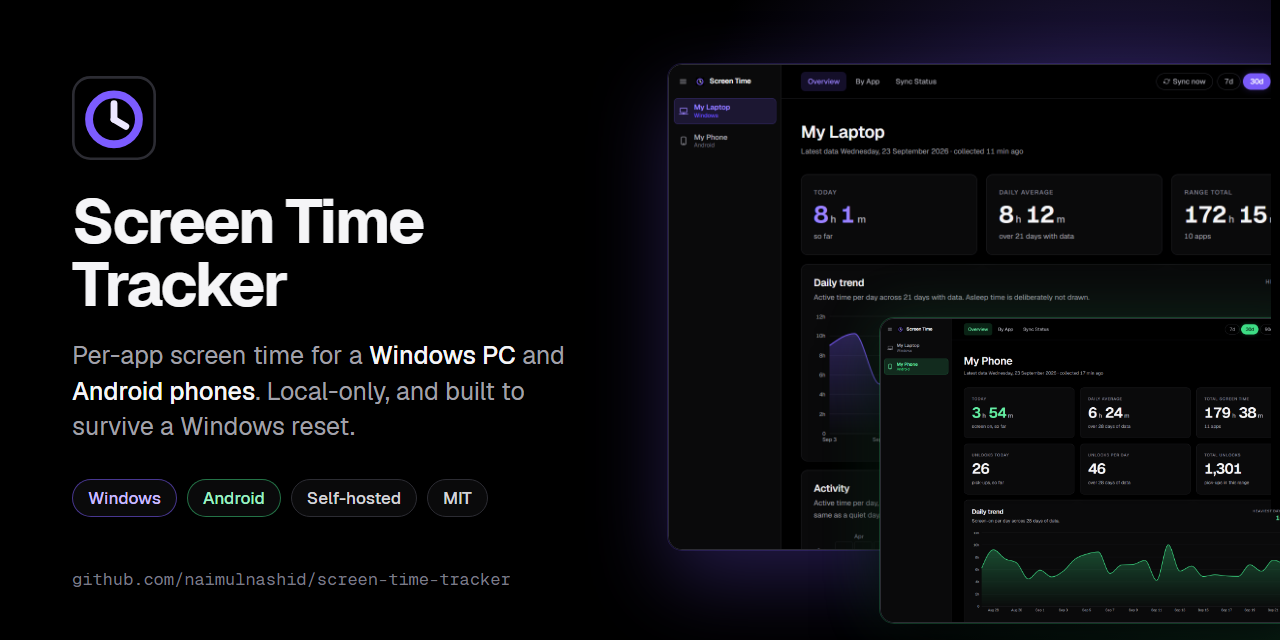
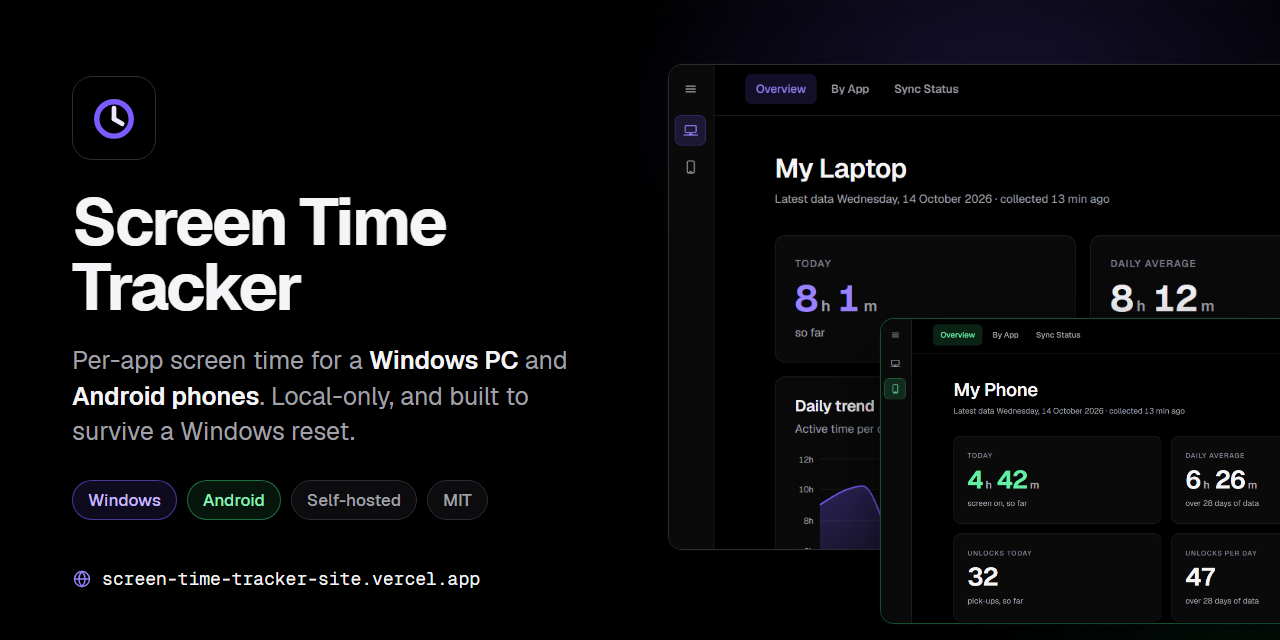
docs: the project site in the README badges and the social preview
The social preview's source is committed now, and the image shows the
site's address in place of the repository's.

diff --git a/docs/social-preview.html b/docs/social-preview.html
@@ -1,0 +1,104 @@
+<!doctype html>
+<!--
+  Source of docs/social-preview.png, the repository's social preview
+  (GitHub: Settings > General > Social preview, which has no API). 1280x640,
+  GitHub's size.
+
+  Built from the demo screenshots, so like them it shows synthetic data only.
+  Retake those first (npm run demo:shots) if the dashboard has changed.
+
+  Render with Edge (fonts come from node_modules, so `npm ci` first):
+
+    "C:\Program Files (x86)\Microsoft\Edge\Application\msedge.exe" --headless=new
+      --disable-gpu --hide-scrollbars --force-device-scale-factor=1
+      --window-size=1280,640 --virtual-time-budget=3000
+      --user-data-dir=%TEMP%\social-preview-edge
+      --screenshot=%CD%\docs\social-preview.png %CD%\docs\social-preview.html
+-->
+<html lang="en">
+<head>
+<meta charset="utf-8">
+<title>Screen Time Tracker</title>
+<style>
+  @font-face { font-family: Geist; font-weight: 400; src: url(../node_modules/geist/dist/fonts/geist-sans/Geist-Regular.woff2) format('woff2'); }
+  @font-face { font-family: Geist; font-weight: 500; src: url(../node_modules/geist/dist/fonts/geist-sans/Geist-Medium.woff2) format('woff2'); }
+  @font-face { font-family: Geist; font-weight: 600; src: url(../node_modules/geist/dist/fonts/geist-sans/Geist-SemiBold.woff2) format('woff2'); }
+  @font-face { font-family: Geist; font-weight: 700; src: url(../node_modules/geist/dist/fonts/geist-sans/Geist-Bold.woff2) format('woff2'); }
+  @font-face { font-family: 'Geist Mono'; font-weight: 400; src: url(../node_modules/geist/dist/fonts/geist-mono/GeistMono-Regular.woff2) format('woff2'); }
+
+  /* The dashboard's own tokens (src/app/globals.css, src/lib/accent.ts). */
+  :root {
+    --bg: #000000;
+    --border: #1e1e22;
+    --border-strong: #2c2c33;
+    --text: #f5f5f7;
+    --text-dim: #a1a1aa;
+    --text-faint: #7b7b86;
+    --violet: #7c5cff;
+    --violet-bright: #9b82ff;
+    --green: #3ddc84;
+  }
+
+  * { box-sizing: border-box; margin: 0; padding: 0; }
+  html, body { width: 1280px; height: 640px; overflow: hidden; }
+  body {
+    background:
+      radial-gradient(560px 380px at 78% 18%, rgba(124, 92, 255, 0.22), transparent 70%),
+      radial-gradient(420px 300px at 96% 98%, rgba(61, 220, 132, 0.10), transparent 70%),
+      var(--bg);
+    color: var(--text);
+    font-family: Geist, system-ui, sans-serif;
+    -webkit-font-smoothing: antialiased;
+  }
+
+  /* ---- left: the words ---- */
+  .copy { position: absolute; left: 72px; top: 76px; bottom: 50px; width: 520px; display: flex; flex-direction: column; }
+  .icon { width: 84px; height: 84px; border-radius: 20px; border: 1.5px solid var(--border-strong); display: grid; place-items: center; background: #000; }
+  .icon svg { width: 58px; height: 58px; }
+  h1 { margin-top: 30px; font-size: 66px; line-height: 0.98; font-weight: 700; letter-spacing: -0.035em; }
+  .tagline { margin-top: 24px; font-size: 25px; line-height: 1.42; color: var(--text-dim); }
+  .tagline strong { color: var(--text); font-weight: 600; }
+  .chips { margin-top: 30px; display: flex; gap: 10px; }
+  .chip { font-size: 17px; font-weight: 500; padding: 8px 15px; border-radius: 999px; border: 1px solid var(--border-strong); color: var(--text-dim); background: #0c0c0e; }
+  .chip.v { color: #c5b8ff; border-color: rgba(124, 92, 255, 0.55); background: rgba(124, 92, 255, 0.12); }
+  .chip.g { color: #8af0b8; border-color: rgba(61, 220, 132, 0.45); background: rgba(61, 220, 132, 0.10); }
+  /* The project site. The card itself links to the repository. */
+  .site { margin-top: auto; display: flex; align-items: center; gap: 10px; font-family: 'Geist Mono', monospace; font-size: 18px; color: var(--text); }
+  .site svg { width: 20px; height: 20px; fill: none; stroke: var(--violet-bright); stroke-width: 1.8; }
+
+  /* ---- right: two framed screenshots ---- */
+  .frame { position: absolute; overflow: hidden; border-radius: 14px; border: 1px solid var(--border-strong); background: #000;
+           box-shadow: 0 0 0 1px rgba(255, 255, 255, 0.02), 0 30px 70px rgba(0, 0, 0, 0.7); }
+  .frame img { display: block; }
+  .laptop { left: 668px; top: 64px; width: 640px; height: 486px; }
+  .laptop img { width: 1100px; margin: -2px 0 0 -2px; }
+  .phone { left: 880px; top: 318px; width: 430px; height: 306px; border-color: rgba(61, 220, 132, 0.35); }
+  .phone img { width: 760px; margin: -2px 0 0 -2px; }
+</style>
+</head>
+<body>
+<section class="copy">
+  <div class="icon">
+    <svg viewBox="0 0 32 32" aria-hidden="true">
+      <circle cx="16" cy="16.5" r="9.5" fill="none" stroke="#7c5cff" stroke-width="3"/>
+      <path d="M16 16.5 V 10.5" stroke="#ece8ff" stroke-width="2.6" stroke-linecap="round"/>
+      <path d="M16 16.5 L 20.5 19.2" stroke="#ece8ff" stroke-width="2.6" stroke-linecap="round"/>
+    </svg>
+  </div>
+  <h1>Screen Time<br>Tracker</h1>
+  <p class="tagline">Per-app screen time for a <strong>Windows PC</strong> and <strong>Android phones</strong>. Local-only, and built to survive a Windows reset.</p>
+  <div class="chips">
+    <span class="chip v">Windows</span>
+    <span class="chip g">Android</span>
+    <span class="chip">Self-hosted</span>
+    <span class="chip">MIT</span>
+  </div>
+  <div class="site">
+    <svg viewBox="0 0 24 24" aria-hidden="true"><circle cx="12" cy="12" r="9"/><path d="M3 12h18M12 3c2.5 2.7 3.8 5.7 3.8 9s-1.3 6.3-3.8 9c-2.5-2.7-3.8-5.7-3.8-9S9.5 5.7 12 3z"/></svg>screen-time-tracker-site.vercel.app
+  </div>
+</section>
+
+<div class="frame laptop"><img src="screenshots/laptop-overview.png" alt=""></div>
+<div class="frame phone"><img src="screenshots/tour/phone-1-overview.png" alt=""></div>
+</body>
+</html>

diff --git a/docs/PROGRESS.md b/docs/PROGRESS.md
@@ -811,7 +811,7 @@ phone's history for the phone's measured reach minus 48 hours, capped at
 168. Measured reach today: Nothing ~216 h, Redmi Note 9 Pro ~218 h, Redmi 5
 Plus ~138 h. Released as the v1.4.0 asset; not yet installed on the phones.
 
-### 2026-10-14 - a project site, and light screenshots
+### 2026-10-14 - a project site, light screenshots, a committed social preview
 
 - [x] `site/`: a static one-page site for visitors, built by `site/build.mjs`
       (copies `docs/screenshots/` in) and configured for Vercel by
@@ -820,12 +820,19 @@ Plus ~138 h. Released as the v1.4.0 asset; not yet installed on the phones.
       laptop / phone switch; Time / Opens toggles; screenshots follow the theme.
 - [x] `demo:shots` takes dark and light in one run: 22 images, pairs checked
       identical in data. Run with a scratch folder on D: (see DEVLOG).
+- [x] `docs/social-preview.html` committed and rendered, the site's address in
+      place of the repo's.
 - [x] Checked: full page in both themes and both device modes at 1440, every
       card paragraph one line, no overflow at 375, toggles, Expand, fold and
       theme switch exercised, no console errors.
-- [ ] Publish the export; import the PUBLIC repo in Vercel as
-      `screen-time-tracker-site`, Root Directory `site`; then link it from the
-      README and the social preview.
+- [x] Published (public `bc5a8bd`, CI green) and imported in Vercel as
+      `screen-time-tracker-site`, Root Directory `site`:
+      <https://screen-time-tracker-site.vercel.app/>. Live check: every chart
+      drawn, screenshots and fonts load, CSP served, no console errors. The
+      repo's About box already names it.
+- [x] README badge (shields "website", reads online / offline) and link.
+- [ ] Upload `docs/social-preview.png` in GitHub: Settings > General >
+      Social preview (no API for it).
 
 ### 2026-10-08 - three phones reinstalled, merged, and v1.4.1
 

diff --git a/README.md b/README.md
@@ -3,6 +3,7 @@
 [![CI](https://github.com/naimulnashid/screen-time-tracker/actions/workflows/ci.yml/badge.svg)](https://github.com/naimulnashid/screen-time-tracker/actions/workflows/ci.yml)
 [![Latest release](https://img.shields.io/github/v/release/naimulnashid/screen-time-tracker)](https://github.com/naimulnashid/screen-time-tracker/releases/latest)
 [![MIT license](https://img.shields.io/github/license/naimulnashid/screen-time-tracker)](LICENSE)
+[![Project site](https://img.shields.io/website?url=https%3A%2F%2Fscreen-time-tracker-site.vercel.app&label=project%20site&up_message=online&down_message=offline)](https://screen-time-tracker-site.vercel.app/)
 
 **How long each app was actually in the foreground — on a Windows PC and your
 Android phones — kept on your own machine, and built to survive a Windows
@@ -11,6 +12,10 @@ reset.**
 ![The laptop's Overview: today, the daily average and the range total, above a daily trend line](docs/screenshots/laptop-overview.png)
 
 *Screenshots show synthetic data from `npm run demo:seed`.*
+
+**[See it on the project site](https://screen-time-tracker-site.vercel.app/)**:
+how it works, a tour of the dashboard, every chart it draws (live, on
+invented data) and every feature.
 
 - **Local only.** A dashboard on your own PC, reachable from your LAN. No
   cloud, no account, no telemetry, no outbound requests.
@@ -28,7 +33,9 @@ reset.**
 
 Each page top to bottom, at 1440px wide, in the default dark theme. A
 Dark / Light / System menu in the top bar switches every page to a light
-theme. Retake them all with `npm run demo:shots`.
+theme; each image has a light twin beside it (`*-light.png`), taken in the
+same run from the same demo, so the two show the same numbers. Retake them
+all with `npm run demo:shots`.
 
 ### The laptop
 

diff --git a/CHANGELOG.md b/CHANGELOG.md
@@ -9,15 +9,21 @@ each change -- what was measured, and what it overturned -- is in
 ## [Unreleased]
 
 ### Added
-- **A project site** in `site/`, for Vercel with Root Directory `site`:
+- **A project site** in `site/`, deployed on Vercel at
+  <https://screen-time-tracker-site.vercel.app/> with Root Directory `site`:
   what the project is for, how both collectors work, a tour of every page in
   the matching theme, every chart type drawn live on invented data with a
   laptop / phone switch and Time / Opens toggles, and every feature. Plain
   HTML, CSS and one script; a push rebuilds it only when `site/` or
-  `docs/screenshots/` changed.
+  `docs/screenshots/` changed. Linked from a README badge.
 - **Light-theme screenshots.** `npm run demo:shots` takes every page in the
   dark theme and again in the light one (`*-light.png`), from one seeded
   demo, so each pair shows the same numbers.
+
+### Changed
+- **The social preview's source is committed** (`docs/social-preview.html`),
+  and the image shows the project site's address in place of the
+  repository's.
 
 ## [1.5.1] - 2026-10-14
 

diff --git a/docs/DEVLOG.md b/docs/DEVLOG.md
@@ -35,6 +35,12 @@ drives: Turbopack refused it as "out of the filesystem root", because the
 widened `turbopack.root` can only be a folder holding both. Passing a folder
 on D: works: `npm run demo:shots -- D:\AppData\ScreenTime-scratch\shots`.
 
+**The social preview's source is committed now**, as
+`docs/social-preview.html`, rendered with headless Edge like the sibling's.
+It was a throwaway page before, so changing the image meant redrawing it from
+nothing. Its bottom line is the site's address in place of the repository's,
+which the card already links to.
+
 ### A cloud inbox for the phones, encrypted end to end
 
 The phones could only post to the dashboard's LAN address: it changed with
